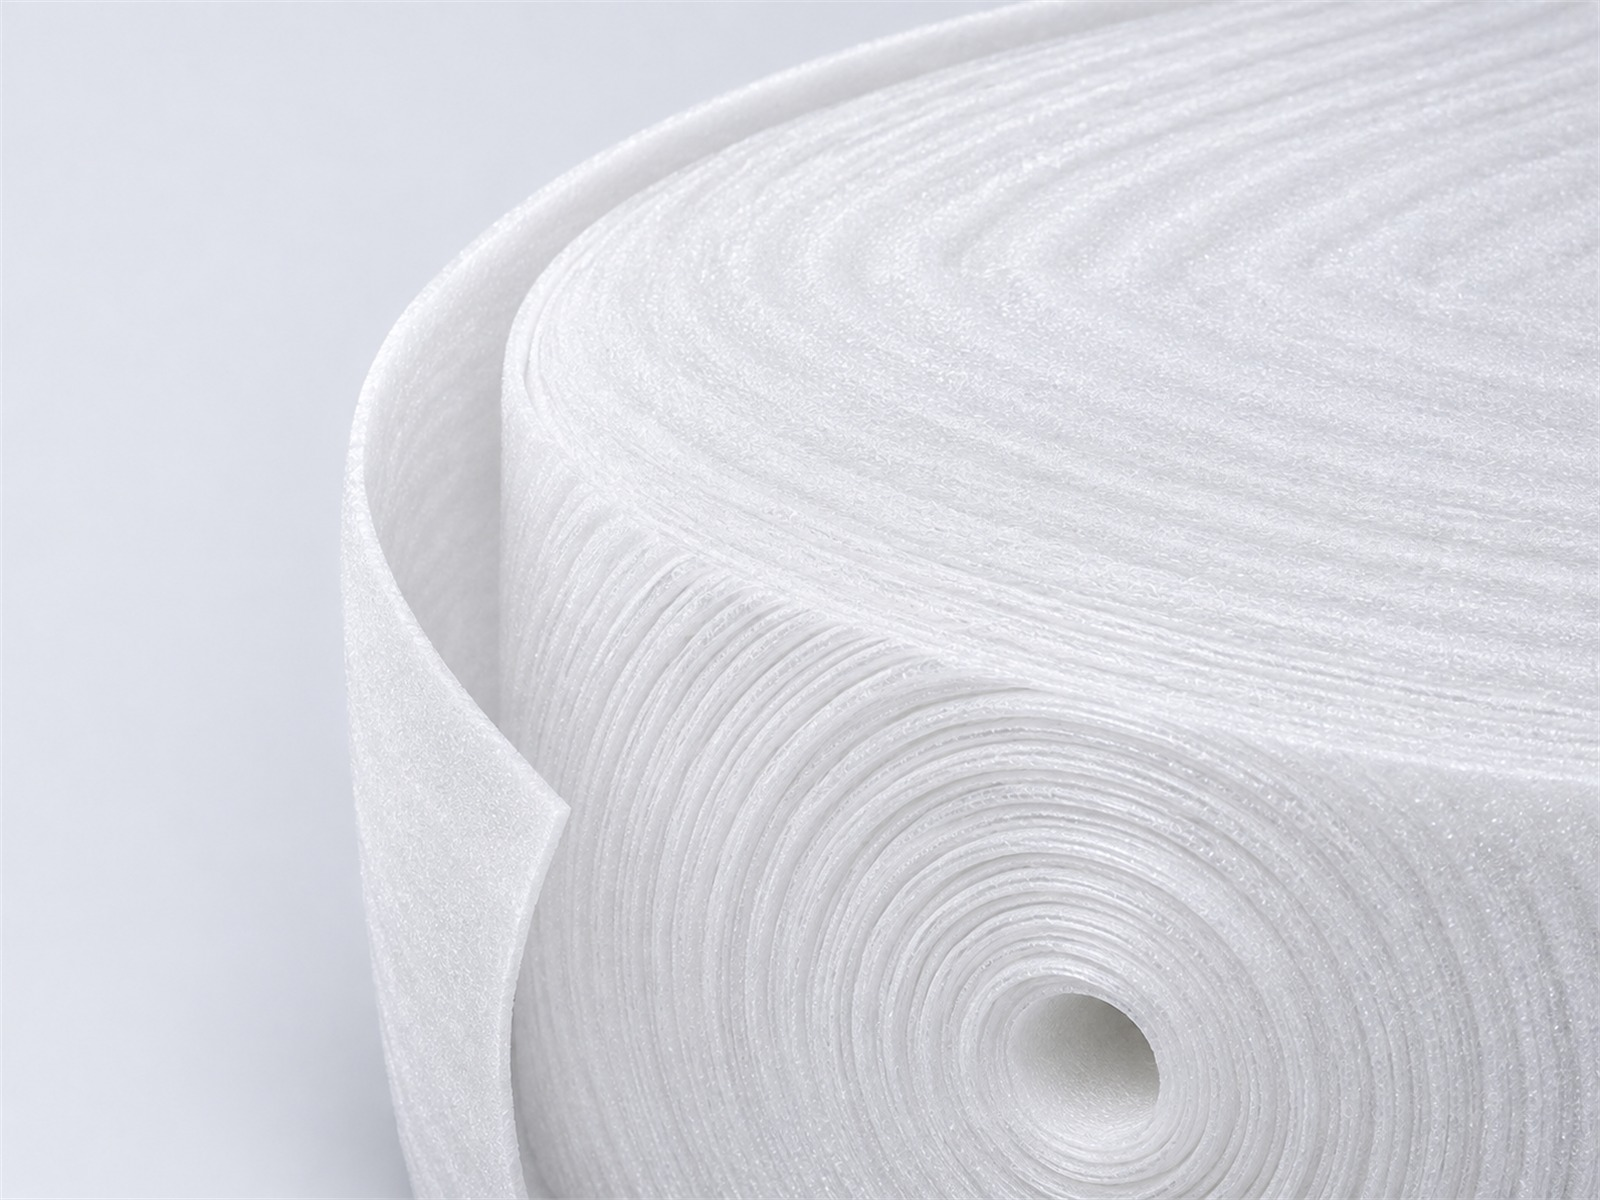
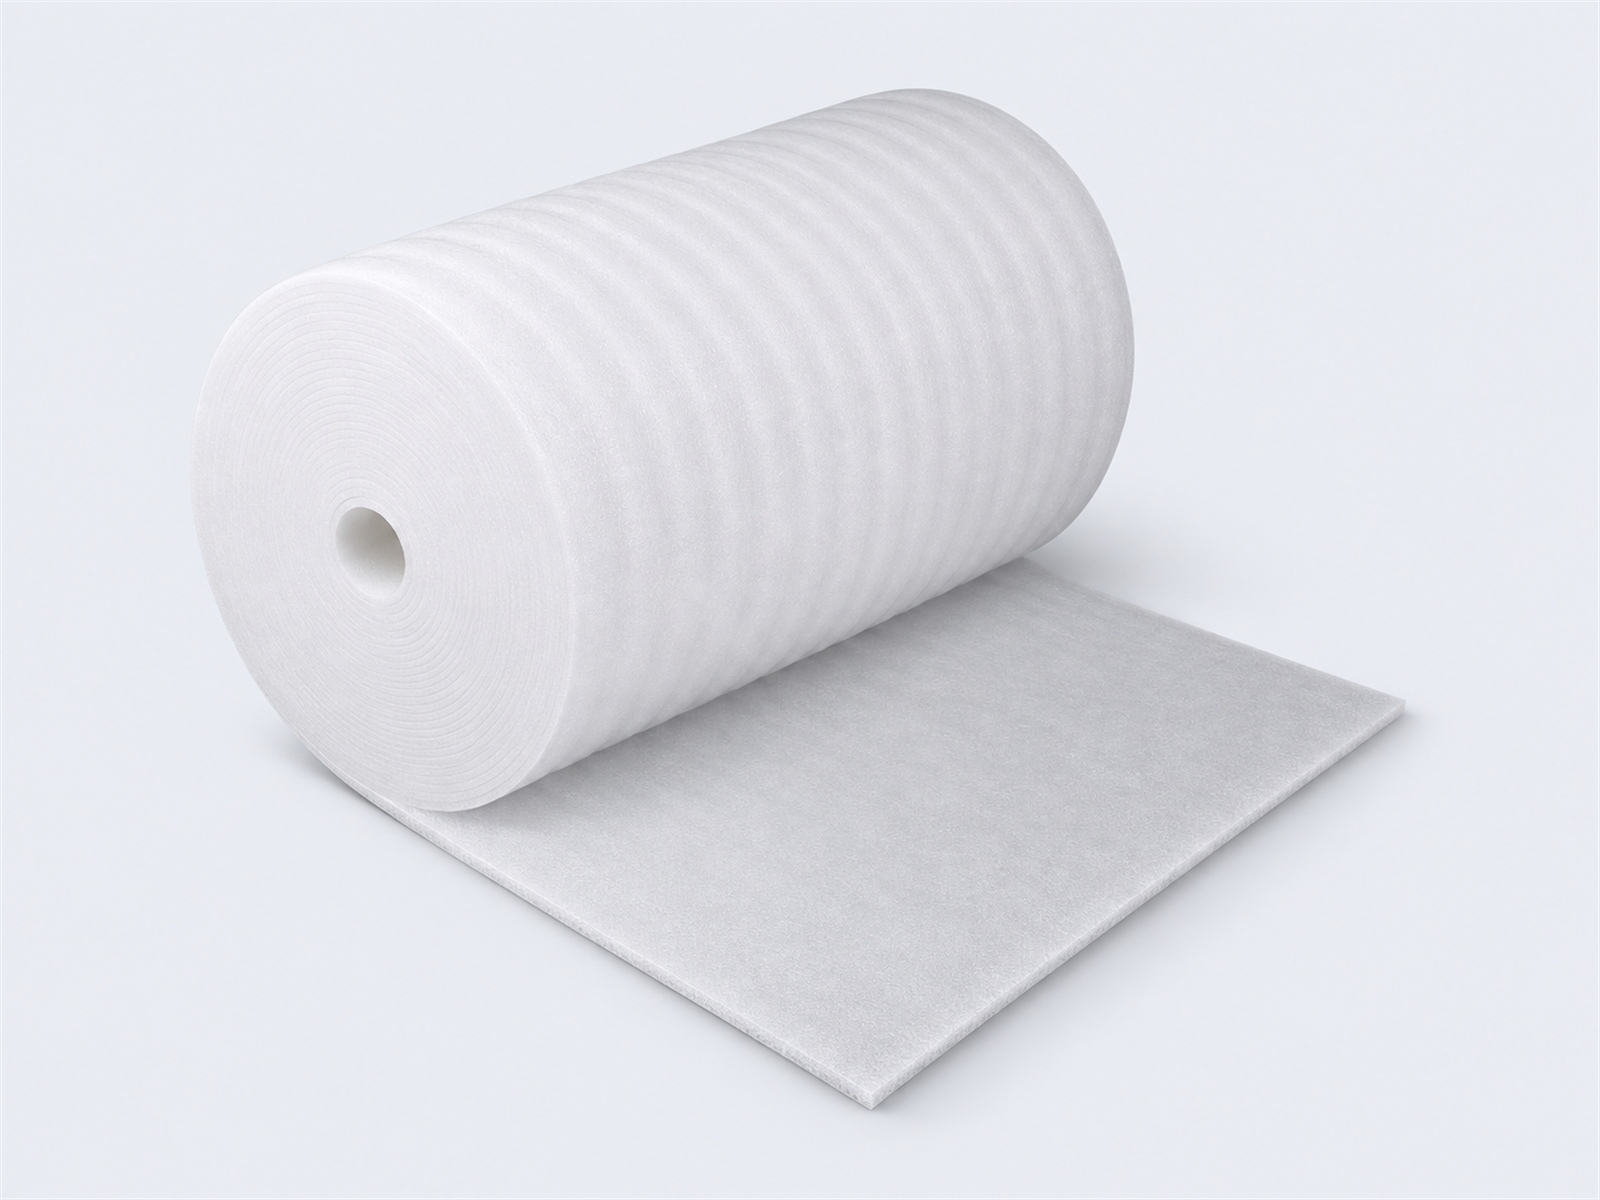
Вомлекс: перегенерировано фото 2 — торец ровной спиралью, без рёбер

Changed region(s): [[0.1562, 0.0, 1.0, 1.0], [0.1875, 0.6167, 0.25, 0.6783]]

diff --git a/PHOTO-PROMPTS-GALLERY.md b/PHOTO-PROMPTS-GALLERY.md
@@ -278,11 +278,14 @@ Two tall white rolls of polyethylene foam wallpaper underlay standing upright, o
 
 ## 10 — Вомлекс НПЭ (белый, волнистый)
 
-**10-vomlex-npe-2.jpg** — по `1.jpg` [деталь]
+**10-vomlex-npe-2.jpg** — по `1.jpg` [общий]
+
+Первая версия вышла с ошибкой: торец был нарисован ребристым кругом, а внешний слой — отдельной лентой. Перегенерировать с промптом ниже.
 ```
-Close-up of the spiral end of a white expanded polyethylene foam roll lying on its side, the thin sheet with a fine wavy ribbed surface wound in many layers.
-[деталь]
+One roll of white non-cross-linked expanded polyethylene foam lying on its side, seen at a 3/4 angle from the end. The flat end face of the roll shows a smooth tight spiral of many thin sheet layers (each layer 2–3 mm) around a round hollow core — the end face is flat and evenly layered, with no ribs, waves or grooves on it. The fine wavy ribbed texture is only on the outer cylindrical surface of the roll, ribs running around the roll. The outer sheet continues from the roll as one piece and lies flat toward the camera; it is the same sheet, not a separate band. The roll occupies 60% of the frame width.
+[каталог]
 ```
+**Негатив добавить:** ribbed end face, wavy end face, grooves on the end face, concentric ridges, separate band, second roll, flat disc, ribbon around the roll, melted texture.
 
 **10-vomlex-npe-3.jpg** — по `2.jpg` [общий]
 ```
